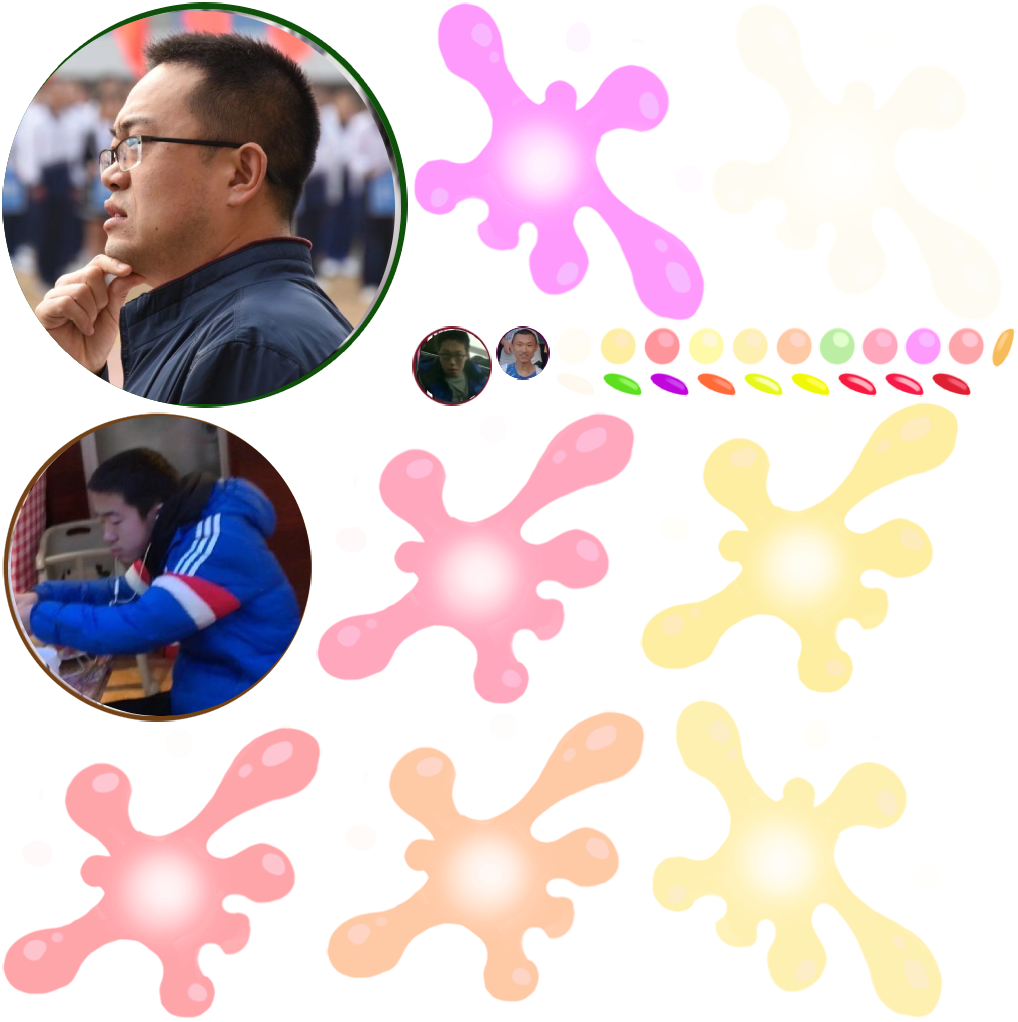
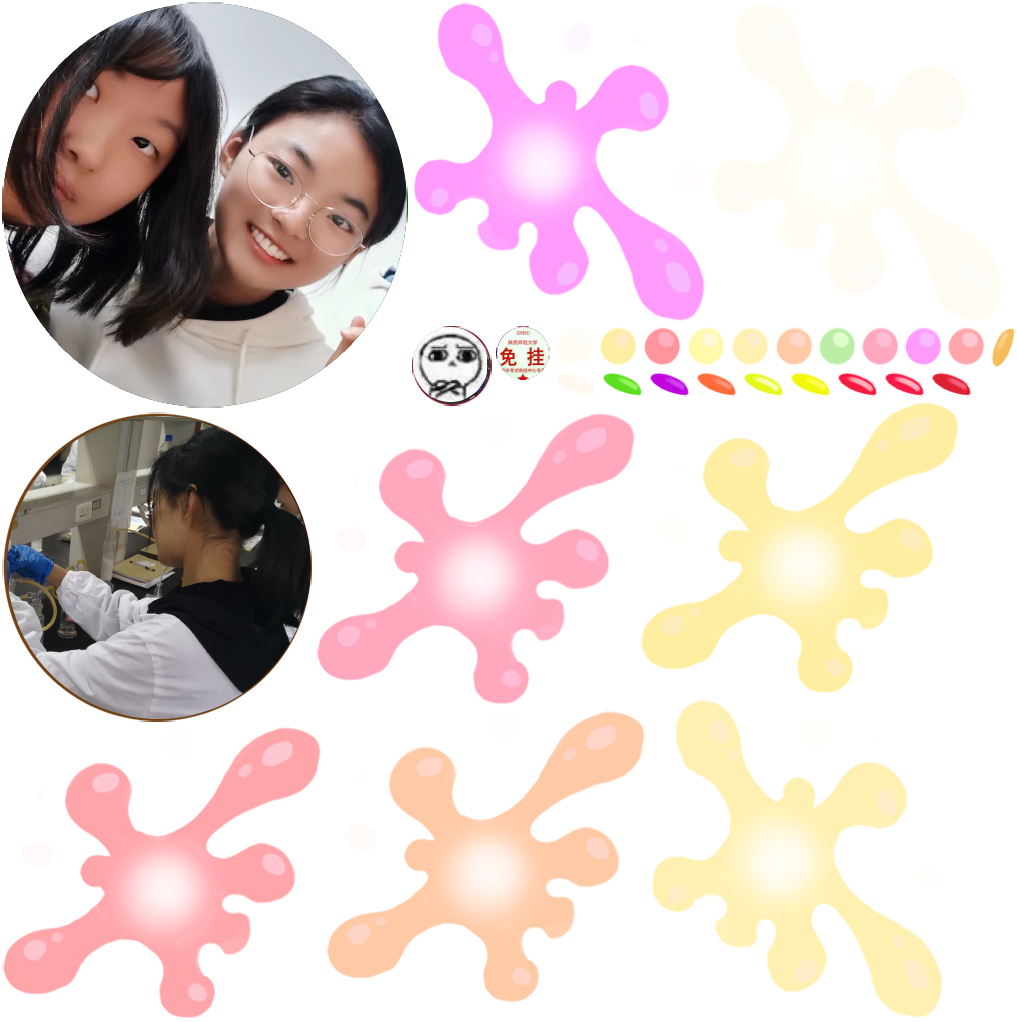
first commit

Changed region(s): [[0.0, 0.0, 0.4263, 0.728], [0.3959, 0.3033, 0.5481, 0.3943]]

diff --git a/index.html b/index.html
@@ -4,7 +4,7 @@
 <head>
     <meta charset="utf-8">
 
-    <title>合成大执平</title>
+    <title>合成袁玉</title>
 
     <!--http://www.html5rocks.com/en/mobile/mobifying/-->
     <meta name="viewport" content="width=device-width,user-scalable=no,initial-scale=1, minimum-scale=1,maximum-scale=1" />
@@ -109,7 +109,7 @@
             //        console.log("window.navigator.language",window.navigator.language);
 
             if (window.navigator.language == "zh-CN" || window.navigator.language == "zh-cn") {
-                document.title = "合成大执平";
+                document.title = "合成袁玉";
             } 
 
 
